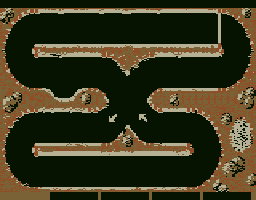
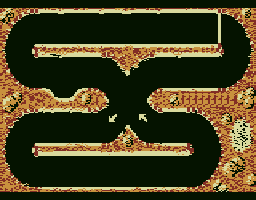
NES: Work-around in Slicks for missing GetPixel() function (using a pre-computed background mask array). +fixes a few minor issues with interface.

diff --git a/projects/slicks/src/interface.c b/projects/slicks/src/interface.c
@@ -17,28 +17,28 @@
 	#define INK_HIGHLT	 BLACK
 	#define PAPER_HIGHLT YELLOW
 	#define PAPER_SCORES BLACK
-	#define SCORES_ROW   8
+	#define SCORES_ROW   	  8
 #elif defined __ATARI__
 	#define INK_LAPS   	 GREEN
 	#define INK_TAB		 GREEN
 	#define INK_HIGHLT	 BLACK
 	#define PAPER_HIGHLT YELLOW
 	#define PAPER_SCORES BLACK
-	#define SCORES_ROW   8
+	#define SCORES_ROW   	  8
 #elif defined __ORIC__
 	#define INK_LAPS   	 GREEN
 	#define INK_TAB		 GREEN
 	#define INK_HIGHLT	 BLACK
 	#define PAPER_HIGHLT YELLOW
 	#define PAPER_SCORES BLACK
-	#define SCORES_ROW   8
+	#define SCORES_ROW   	  8
 #elif defined __CBM__
 	#define INK_LAPS   	 BLACK
 	#define INK_TAB		 GREEN
 	#define INK_HIGHLT	 BLACK
 	#define PAPER_HIGHLT YELLOW
 	#define PAPER_SCORES GREY
-	#define SCORES_ROW   8
+	#define SCORES_ROW   	  8
 #elif defined __LYNX__
 	#define INK_LAPS   	 BLACK
 	#define INK_TAB		 YELLOW	
@@ -50,12 +50,12 @@
 	#define PAUSE_LOCAL_ROW   6
 	#define PAUSE_ONLINE_ROW  2
 #elif defined __NES__
-	#define INK_LAPS   	 BLACK
+	#define INK_LAPS   	 WHITE
 	#define INK_TAB		 GREEN
 	#define INK_HIGHLT	 BLACK
 	#define PAPER_HIGHLT YELLOW
 	#define PAPER_SCORES GREY
-	#define SCORES_ROW   8	
+	#define SCORES_ROW   	  8	
 	#define PAUSE_COL 		  7
 	#define PAUSE_LOCAL_ROW   6
 	#define PAUSE_ONLINE_ROW  2
@@ -529,24 +529,33 @@ void PrintLap(unsigned char i)
 {
 	if (cars[i].lap < 1) { return; }
 	inkColor = inkColors[i]; 
-	txtX = (i+2)*8-3; txtY = TXT_ROWS-1;
+	txtX = (SLOT_COL1+4) + SLOT_WIDTH*i; txtY = TXT_ROWS-1;
 	PrintNum(cars[i].lap);
 }
 
 // Print race message and laps
 void PrintRace()
 {	
-	// Print race message
 #if defined(__CBM__) || defined(__LYNX__)
 	paperColor = paperBuffer;
 #else
 	paperColor = BLACK; 
 #endif	
+
+	// Print race message
+#if defined(__NES__)
+	PrintBuffer("  RACE STARTED, GOAL:    LAPS!  ");
+#else
 	PrintBuffer("      RACE STARTED, GOAL:    LAPS!      ");
+#endif	
 	
 	// Print laps
 	inkColor = INK_LAPS; 
+#if defined(__NES__)
+	txtX = 22; txtY = 0; 
+#else
 	txtX = 26; txtY = 0; 
+#endif	
 	PrintNum(lapGoal);
 }
 

diff --git a/projects/slicks/src/game.c b/projects/slicks/src/game.c
@@ -37,9 +37,9 @@
   extern unsigned char pauseEvt;
   extern unsigned char gamePaused;
 #elif defined __NES__
-  #define RACE_ROAD BLACK
-  #define RACE_MARK WHITE
-  #define RACE_WALL RED
+  #define RACE_ROAD 0	// see bgMask
+  #define RACE_MARK 0	//		"
+  #define RACE_WALL 2	//		"
 #endif
 
 // See slicks.c
@@ -116,6 +116,21 @@ unsigned char PlayerAvailable(unsigned char i)
 	}
 	return 0;
 }
+
+// GetPixel() "alternative" function for NES
+#if defined __NES__
+  #pragma bss-name(push, "XRAM")
+    unsigned char bgMask[736];	//  0=road/marking, 1=border/grass, 2=wall.
+	unsigned char pixelX, pixelY;
+    void LocatePixel(unsigned int x, unsigned int y) {
+		pixelX = x/5;
+		pixelY = y/4-2;
+	}
+    unsigned char GetPixel() {
+		return (bgMask[pixelY*16+pixelX/4u] >> ((pixelX%4)*2)) & 3;
+	}
+  #pragma bss-name(pop)  
+#endif
 
 // Reset Game
 void GameReset()
@@ -240,6 +255,12 @@ void GameInit(const char* map)
 	// Load Navigation
 	memcpy(&buffer[len], ".nav", 4);
 	LoadNavigation(&buffer[0]);
+
+	// NES: Load Background Mask (used by alternative GetPixel())
+#if defined __NES__
+	memcpy(&buffer[len], ".msk", 4);
+	FileRead(&buffer[0], bgMask);
+#endif
 	
     // Some extra logics depending on the game mode
 	if (gameMode == MODE_LOCAL) {
@@ -810,7 +831,7 @@ char GameLoop()
 		}				
 		
 		// Check Keyboard Press
-	#if defined __LYNX__
+	#if defined(__LYNX__)
 		if (kbhit() || KeyboardOverlayHit() || !(GetJoy(0) & JOY_BTN2)) {
 			if (chatting) {
 				lastKey = GetKeyboardOverlay();
@@ -823,9 +844,6 @@ char GameLoop()
 			// Special functions (flip screen, pause game)
 			if (!chatting) {
 				switch (lastKey) {
-				case KB_FLIP:
-					SuzyFlip();
-					break;
 				case KB_PAUSE: 
 					for (j=0; j<MAX_PLAYERS; ++j) { DisableSprite(j); }
 					gamePaused = 1; lynx_snd_pause(); BackupRestorePauseBg(0);
@@ -836,6 +854,9 @@ char GameLoop()
 					break;
 				case KB_MUSIC:
 					NextMusic(1);
+					break;
+				case KB_FLIP:
+					SuzyFlip();
 					break;
 				}
 			}

diff --git a/projects/slicks/masks/_png2msk_.py b/projects/slicks/masks/_png2msk_.py
@@ -1,0 +1,46 @@
+"""
+ * Copyright (c) 2021 Anthony Beaucamp.
+ *
+ * This software is provided 'as-is', without any express or implied warranty.
+ * In no event will the authors be held liable for any damages arising from
+ * the use of this software.
+ *
+ * Permission is granted to anyone to use this software for any purpose,
+ * including commercial applications, and to alter it and redistribute it
+ * freely, subject to the following restrictions:
+ *
+ *   1. The origin of this software must not be misrepresented * you must not
+ *   claim that you wrote the original software. If you use this software in a
+ *   product, an acknowledgment in the product documentation would be
+ *   appreciated but is not required.
+ *
+ *   2. Altered source versions must be plainly marked as such, and must not
+ *   be misrepresented as being the original software.
+ *
+ *   3. This notice may not be removed or altered from any distribution.
+ *
+ *   4. The names of this software and/or it's copyright holders may not be
+ *   used to endorse or promote products derived from this software without
+ *   specific prior written permission.
+"""
+ 
+import io, os
+from PIL import Image
+
+maps = [f for f in os.listdir('.') if f.endswith('.png')]
+
+for map in maps:
+    # Read source
+    img1 = Image.open(map)
+    pixdata = list(img1.getdata())
+
+    # Convert to binary data (8 pixels per byte)
+    data = []
+    for i in range(0, len(pixdata), 4):
+        data.append( chr( (pixdata[i+3]<<6) + (pixdata[i+2]<<4) + (pixdata[i+1]<<2) + (pixdata[i]) ) )
+        
+    # Write output
+    f = io.open(map.replace('.png','.msk'), 'wb')	
+    f.write(''.join(data))
+    f.close()
+

diff --git a/projects/slicks/src/definitions.h b/projects/slicks/src/definitions.h
@@ -10,14 +10,20 @@
 //#define NETCODE
 
 // Keyboard definitions
-#if defined(__LYNX__) || defined(__NES__)
+#if defined(__LYNX__)
 	#define KB_START 	49
 	#define KB_MUSIC 	50
 	#define KB_NEXT  	51
 	#define KB_CHAT 	KB_B
 	#define KB_FLIP 	KB_F	
 	#define KB_PAUSE 	KB_P
-	#define KB_QUIT 	KB_R	
+	#define KB_QUIT 	KB_R
+#elif defined(__NES__)
+	#define KB_START 	KB_EN
+	#define KB_QUIT 	KB_SP	
+	#define KB_NEXT 	KB_N
+	#define KB_CHAT 	KB_C
+	#define KB_PAUSE 	KB_P
 #elif defined __CBM__
 	#define KB_START 	CH_F1
 	#define KB_NEXT  	CH_F3

diff --git a/projects/slicks/src/navigation.c b/projects/slicks/src/navigation.c
@@ -4,7 +4,6 @@
 // See game.c
 extern unsigned char gameLineUp[4];
 
-
 #if defined __NES__
  #pragma bss-name(push, "XRAM")
 #endif
@@ -114,6 +113,10 @@ char CheckRamps(Vehicle *car)
     }
     return 0;
 }
+
+#ifdef __ATARIXL__
+  #pragma code-name("SHADOW_RAM")
+#endif
 
 // Functions to check navigation around cylinders
 signed char v1[2], v2[2], dist[2], cross[2], *vWay;
